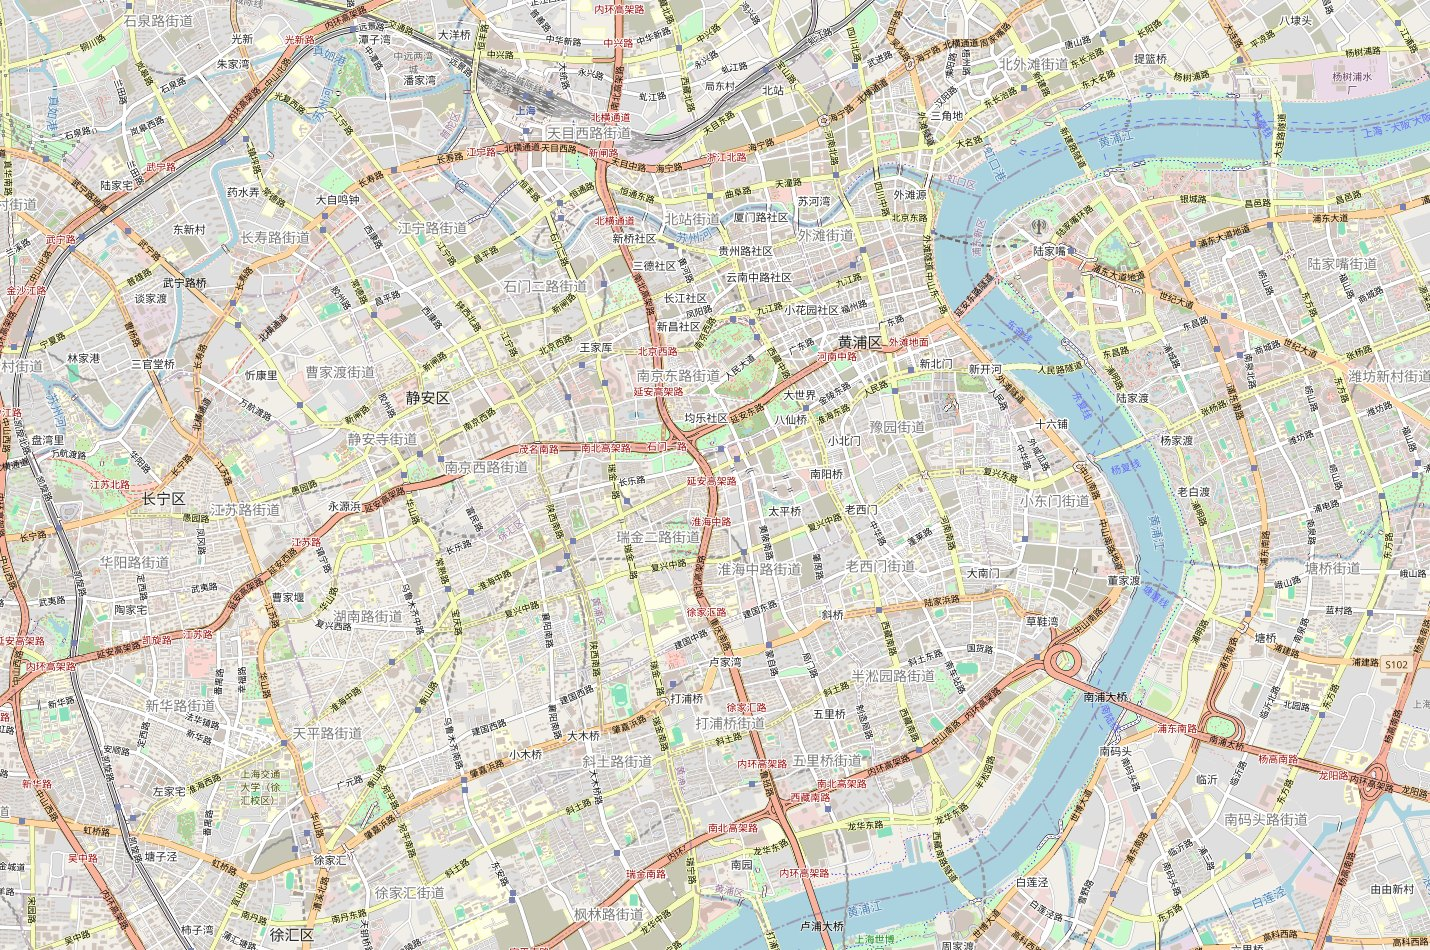
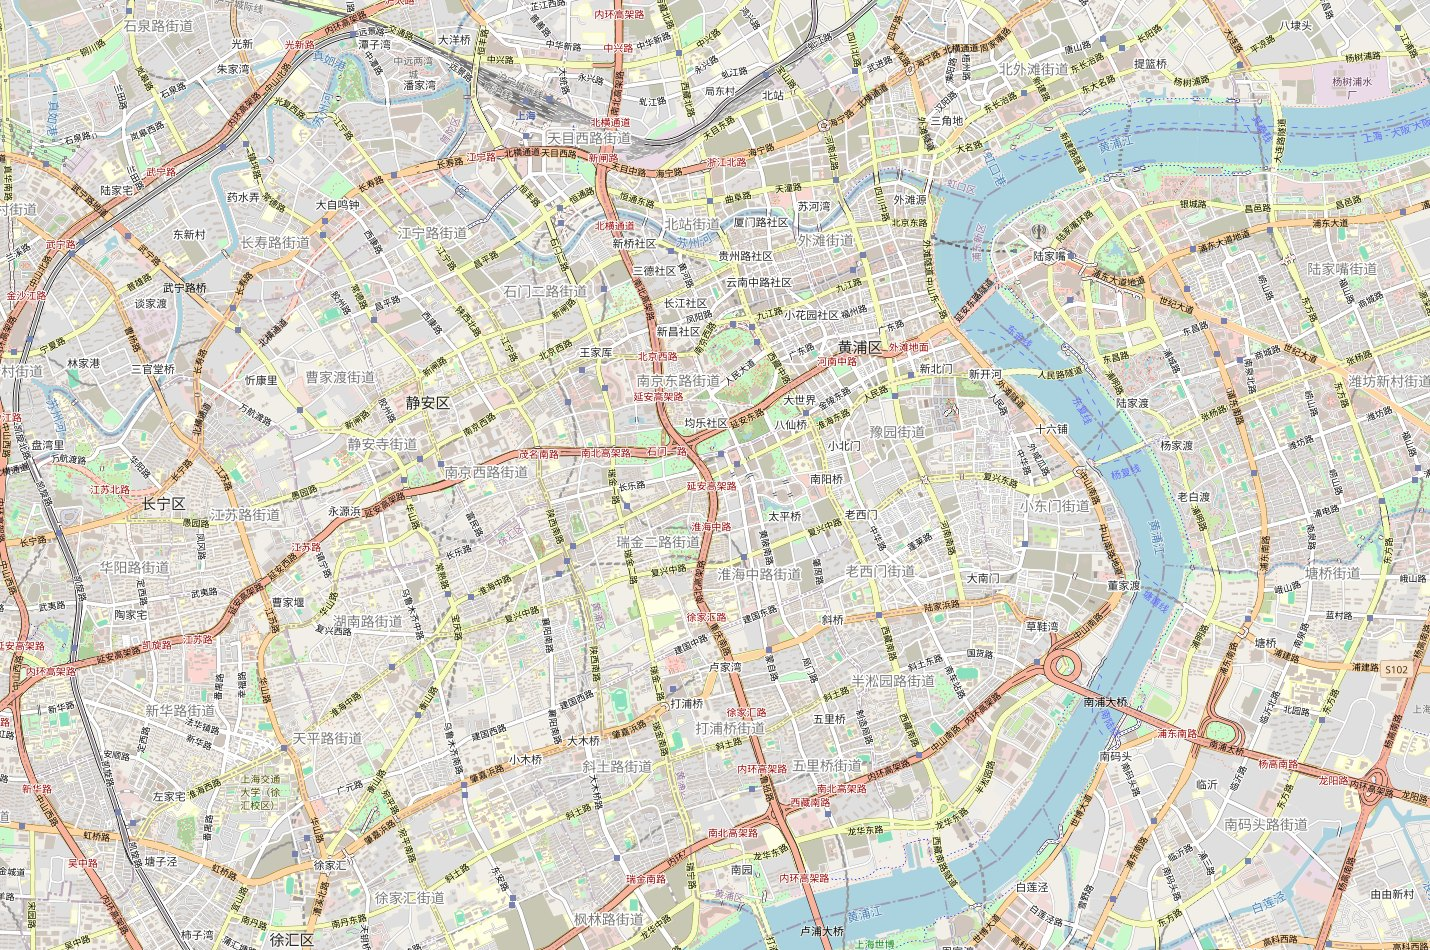
修正联网地图瓦片并更新街区图钉

diff --git a/上海/地图资源/map-ui.js b/上海/地图资源/map-ui.js
@@ -12,7 +12,7 @@
     routes = L.layerGroup().addTo(map);
     placeLayer = L.layerGroup().addTo(map);
     L.control.scale({imperial:false}).addTo(map);
-    online = L.tileLayer('https://tile.openstreetmap.org/{z}/{x}/{y}.jpg',
+    online = L.tileLayer('https://tile.openstreetmap.org/{z}/{x}/{y}.png',
       {maxZoom:19,attribution:'© <a href="https://www.openstreetmap.org/copyright">OpenStreetMap contributors</a>'});
   }
   const embedded = new URLSearchParams(location.search).get('embed') === '1';
@@ -43,7 +43,7 @@
 
   function updatePlaces(view) {
     const selected = new Set([...document.querySelectorAll('[data-kind]:checked')].map(input => input.dataset.kind));
-    currentPins = places.filter(p => (view.id === 9 ? p.days.some(d => d >= 2 && d <= 5) : p.days.includes(view.id)) && selected.has(p.kind));
+    currentPins = places.filter(p => (view.id === 9 ? p.days.some(d => d >= 2 && d <= 5 || d === 9) : p.days.includes(view.id)) && selected.has(p.kind));
     el('place-count').textContent = '· ' + currentPins.length + '处候选';
     el('places-panel').hidden = currentPins.length === 0;
     el('places-list').innerHTML = currentPins.map((p, i) =>
@@ -142,12 +142,12 @@
     const keys = view.id === 0 ? ['sha','hotel','b','disney'] : view.id === 8 ? ['b'] : view.id === 9 ? [] : view.keys;
     const main = new Set(view.routes.flatMap(r => r.route));
     keys.forEach((key,i) => {
-      const lodging = view.id >= 2 && view.id <= 5 && key === 'hotel';
+      const lodging = view.id >= 1 && view.id <= 5 && key === 'hotel';
       const p = data.points[key], dims = lodging ? [28,28]
         : view.id === 0 ? key === 'hotel' ? [50,28] : [36,28] : [42,38];
       const placed = place(p.lat,p.lon,...dims), color = view.id >= 1 && view.id <= 8 ? data.colors[view.id-1] : '#0f766e';
       leader(routes,[p.lat,p.lon],placed,color);
-      routeMarker(p,lodging ? 0 : i + (view.id >= 2 && view.id <= 5 ? 0 : 1),
+      routeMarker(p,lodging ? 0 : i + (view.id === 1 ? 0 : 1),
         !main.has(key),color,placed,lodging).addTo(routes);
     });
     groupedPins().forEach(group => {
@@ -192,8 +192,11 @@
     updatePlaces(view);
     if (map) {
       if (offline) map.removeLayer(offline);
-      offline = L.imageOverlay(prefix + view.background + '?v=' + version, view.bounds, {attribution:'© <a href="https://www.openstreetmap.org/copyright">OpenStreetMap contributors</a>'}).addTo(map);
-      if (el('online').checked) online.bringToFront();
+      offline = L.imageOverlay(prefix + view.background + '?v=' + version, view.bounds, {pane:'tilePane',attribution:'© <a href="https://www.openstreetmap.org/copyright">OpenStreetMap contributors</a>'}).addTo(map);
+      if (el('online').checked) {
+        if (!map.hasLayer(online)) online.addTo(map);
+        online.bringToFront();
+      }
       map.fitBounds(view.bounds,{padding:[12,12]});
       requestAnimationFrame(() => {map.invalidateSize();renderMarkers(view);});
     } else {
